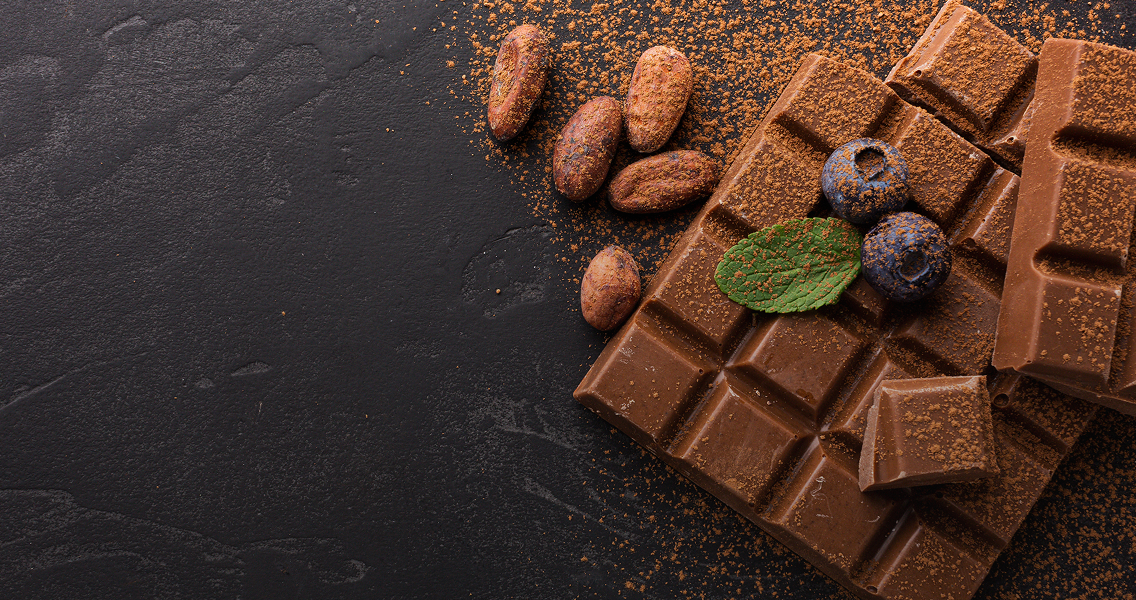
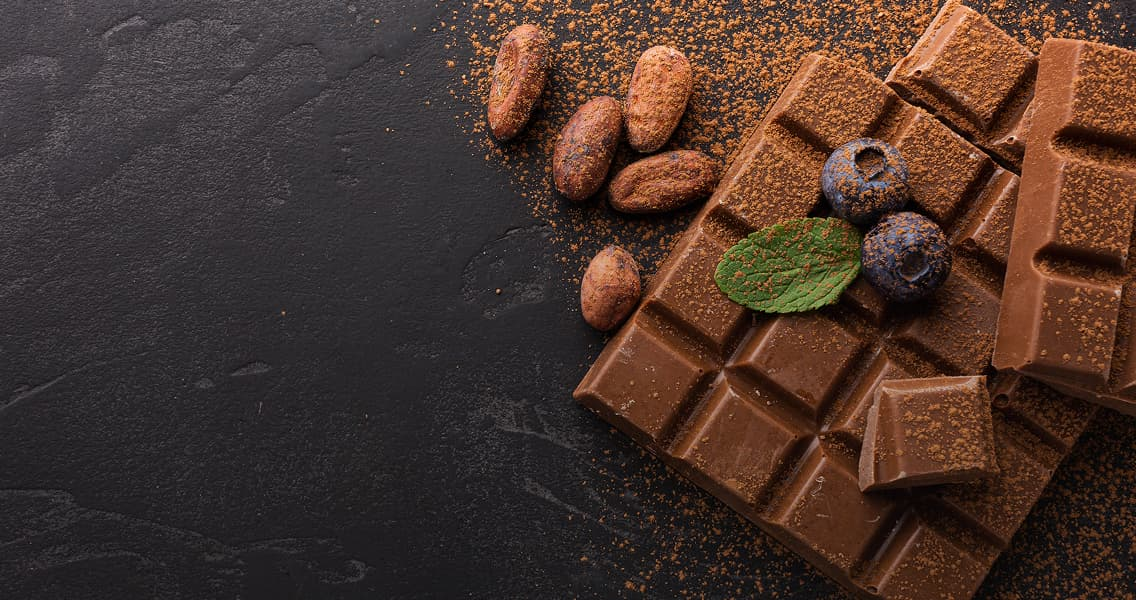
update img

diff --git a/index.html b/index.html
@@ -14,7 +14,7 @@
           <img src="./images/icon/logo.svg" alt="logo" />
           <ul>
             <li><a href="#">Home</a></li>
-            <li><a href="#made">How it’s made?</a></li>
+            <li><a href="#made">How it's made?</a></li>
             <li><a href="#">Chocolate is loved</a></li>
           </ul>
         </a>
@@ -33,7 +33,7 @@
         </li>
       </ul>
     </header>
-    <!--#endregion header-->>
+    <!--#endregion header-->
 
     <main>
       <!--#region hero-->
@@ -65,7 +65,10 @@
         <h2>benefits</h2>
         <ul>
           <li>
-            <img src="" alt="Unsurpassed taste" />
+            <img
+              src="./images/icon/Unsurpassed-taste.svg"
+              alt="Unsurpassed taste"
+            />
             <h3>Unsurpassed taste</h3>
             <p>
               Crafted with the finest quality cocoa beans and a dedication to
@@ -75,7 +78,10 @@
             </p>
           </li>
           <li>
-            <img src="" alt="Affordable price" />
+            <img
+              src="./images/icon/Affordable-price.svg"
+              alt="Affordable price"
+            />
             <h3>Affordable price</h3>
             <p>
               Indulge in high-quality chocolate without breaking the bank with
@@ -86,7 +92,7 @@
             </p>
           </li>
           <li>
-            <img src="" alt="Own production" />
+            <img src="./images/icon/Own-production.svg" alt="Own production" />
             <h3>Own production</h3>
             <p>
               We take pride in our own production process, ensuring that every
@@ -149,12 +155,12 @@
       </section>
       <!-- #endregion sensation -->
 
-      <!-- #region How it’s made? -->
+      <!-- #region How it's made? -->
       <section>
-        <h2 id="made">How it’s made?</h2>
+        <h2 id="made">How it's made?</h2>
         <img
           src="./images/How its made/How-its-made.jpg"
-          alt="How it’s made?"
+          alt="How it's made?"
           width="600"
           height="400"
         />
@@ -181,14 +187,17 @@
         </ul>
       </section>
 
-      <!-- #endregion How it’s made? -->
+      <!-- #endregion How it's made? -->
 
       <!-- #region loved -->
       <section>
         <h2>Chocolate is loved</h2>
         <ul>
           <li>
-            <img src="" alt="Victoria Dobrzhanska" />
+            <img
+              src="./images/chocolate is loved/Victoria-Dobrzhanska.png"
+              alt="Victoria Dobrzhanska"
+            />
             <h3>Victoria Dobrzhanska</h3>
             <p>
               I love this chocolate bar. Perfect combination of light crispy
@@ -196,7 +205,10 @@
             </p>
           </li>
           <li>
-            <img src="" alt="Nazar Babenko" />
+            <img
+              src="./images/chocolate is loved/Nazar-Babenko.png"
+              alt="Nazar Babenko"
+            />
             <h3>Nazar Babenko</h3>
             <p>
               This chocolate confection is a delight! A delight! The wafer is
@@ -205,7 +217,10 @@
             </p>
           </li>
           <li>
-            <img src="" alt="Olena Kampusch" />
+            <img
+              src="./images/chocolate is loved/Olena-Kampusch.png"
+              alt="Olena Kampusch"
+            />
             <h3>Olena Kampusch</h3>
             <p>
               Chocolate is a family favourite treat. Love the delicious smooth
@@ -216,7 +231,6 @@
         </ul>
         <button type="button">Leave a review</button>
       </section>
-
       <!-- #endregion loved -->
     </main>
 
@@ -237,7 +251,7 @@
 
       <ul>
         <li><a href="#">Home</a></li>
-        <li><a href="#">How it’s made?</a></li>
+        <li><a href="#">How it's made?</a></li>
         <li><a href="#">Chocolate is loved</a></li>
       </ul>
 
